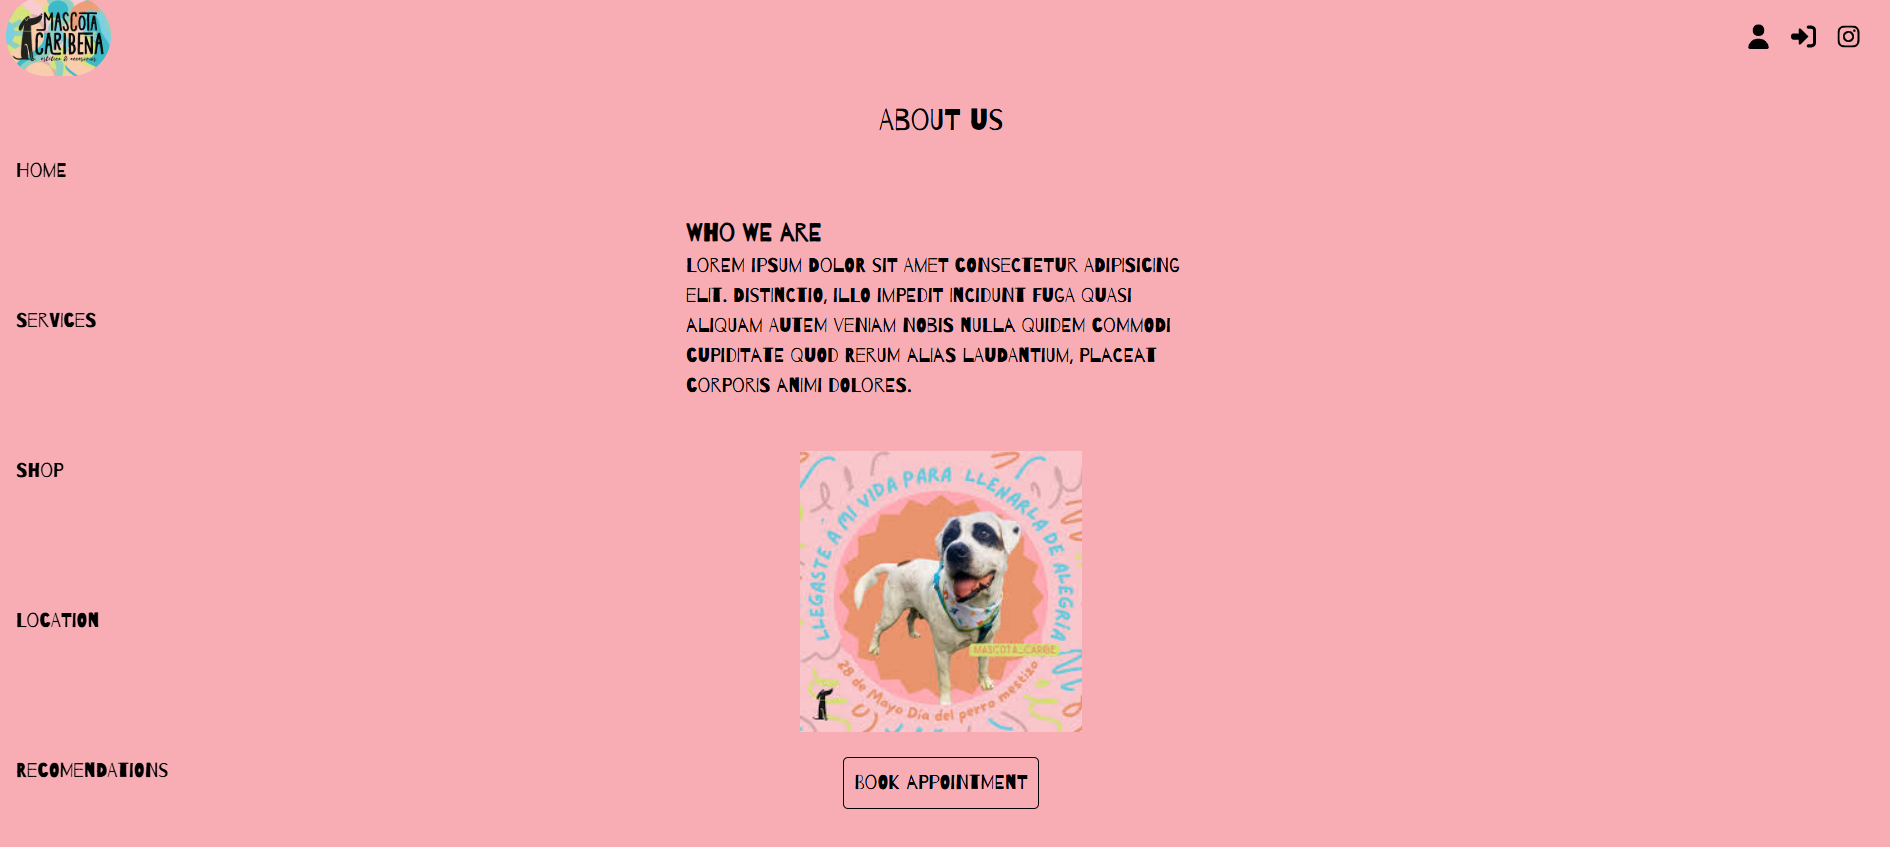
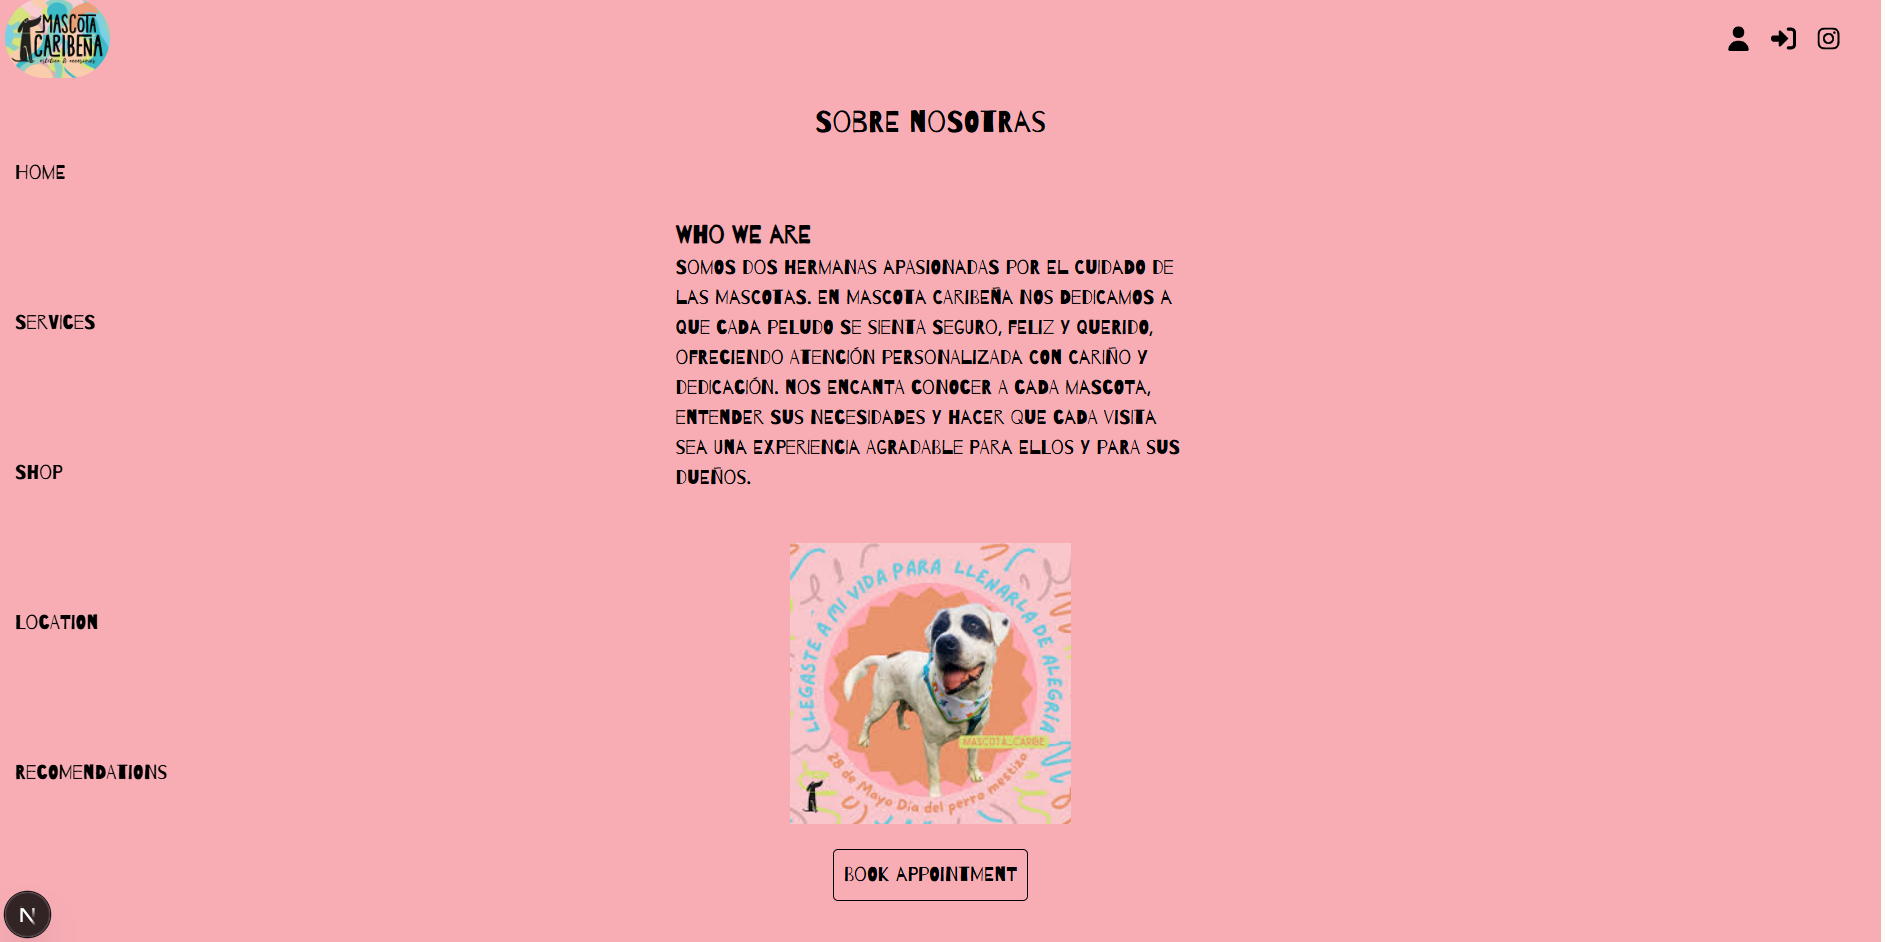
updated mascota png

diff --git a/index.html b/index.html
@@ -53,7 +53,7 @@
 									</header>
 									<div class="posts">
 										<article>
-											<a href="https://github.com/Panchita1989/mascota-caribena" target="_blank" class="image"><img src="mascota.png" alt="mascota" /></a>
+											<a href="https://github.com/Panchita1989/mascota-caribena" target="_blank" class="image"><img src="images/mascota.png" alt="mascota" /></a>
 											<h3>Mascota Caribeña</h3>
 											<p>I built a responsive pet grooming platform with Next.js, Tailwind CSS, and MongoDB, including user signup/login, 
 												appointment booking, and an admin dashboard to manage all client reservations.</p>
